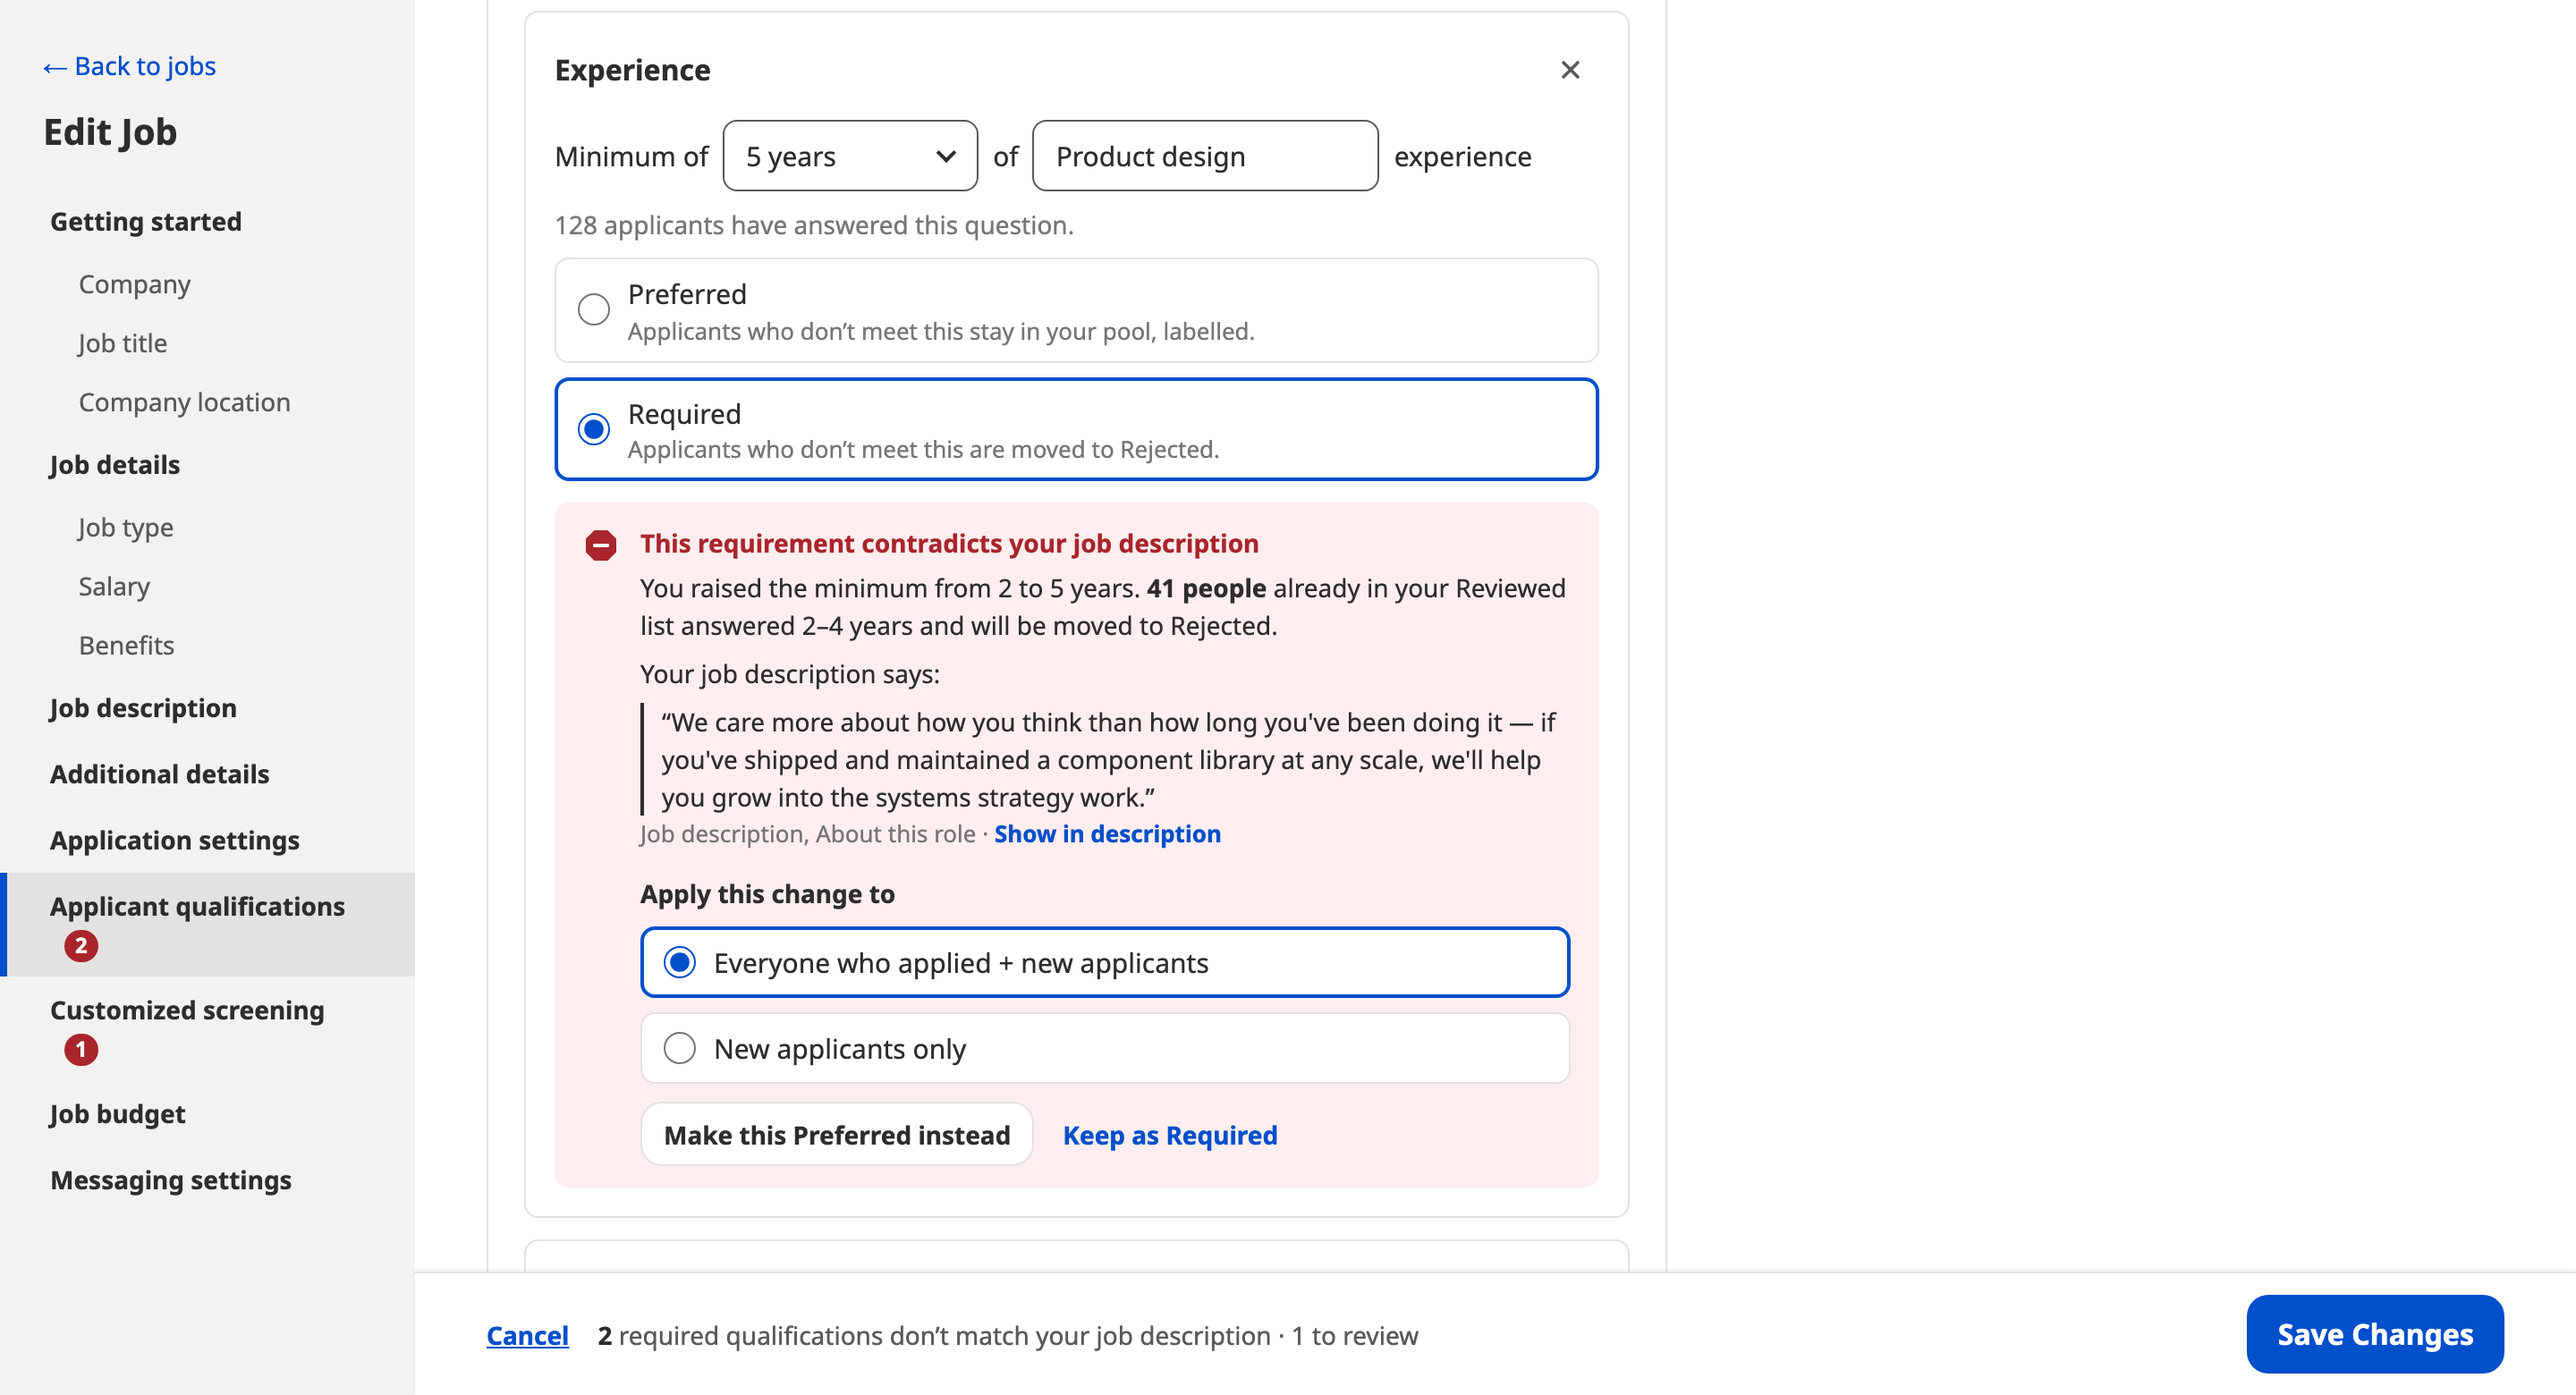
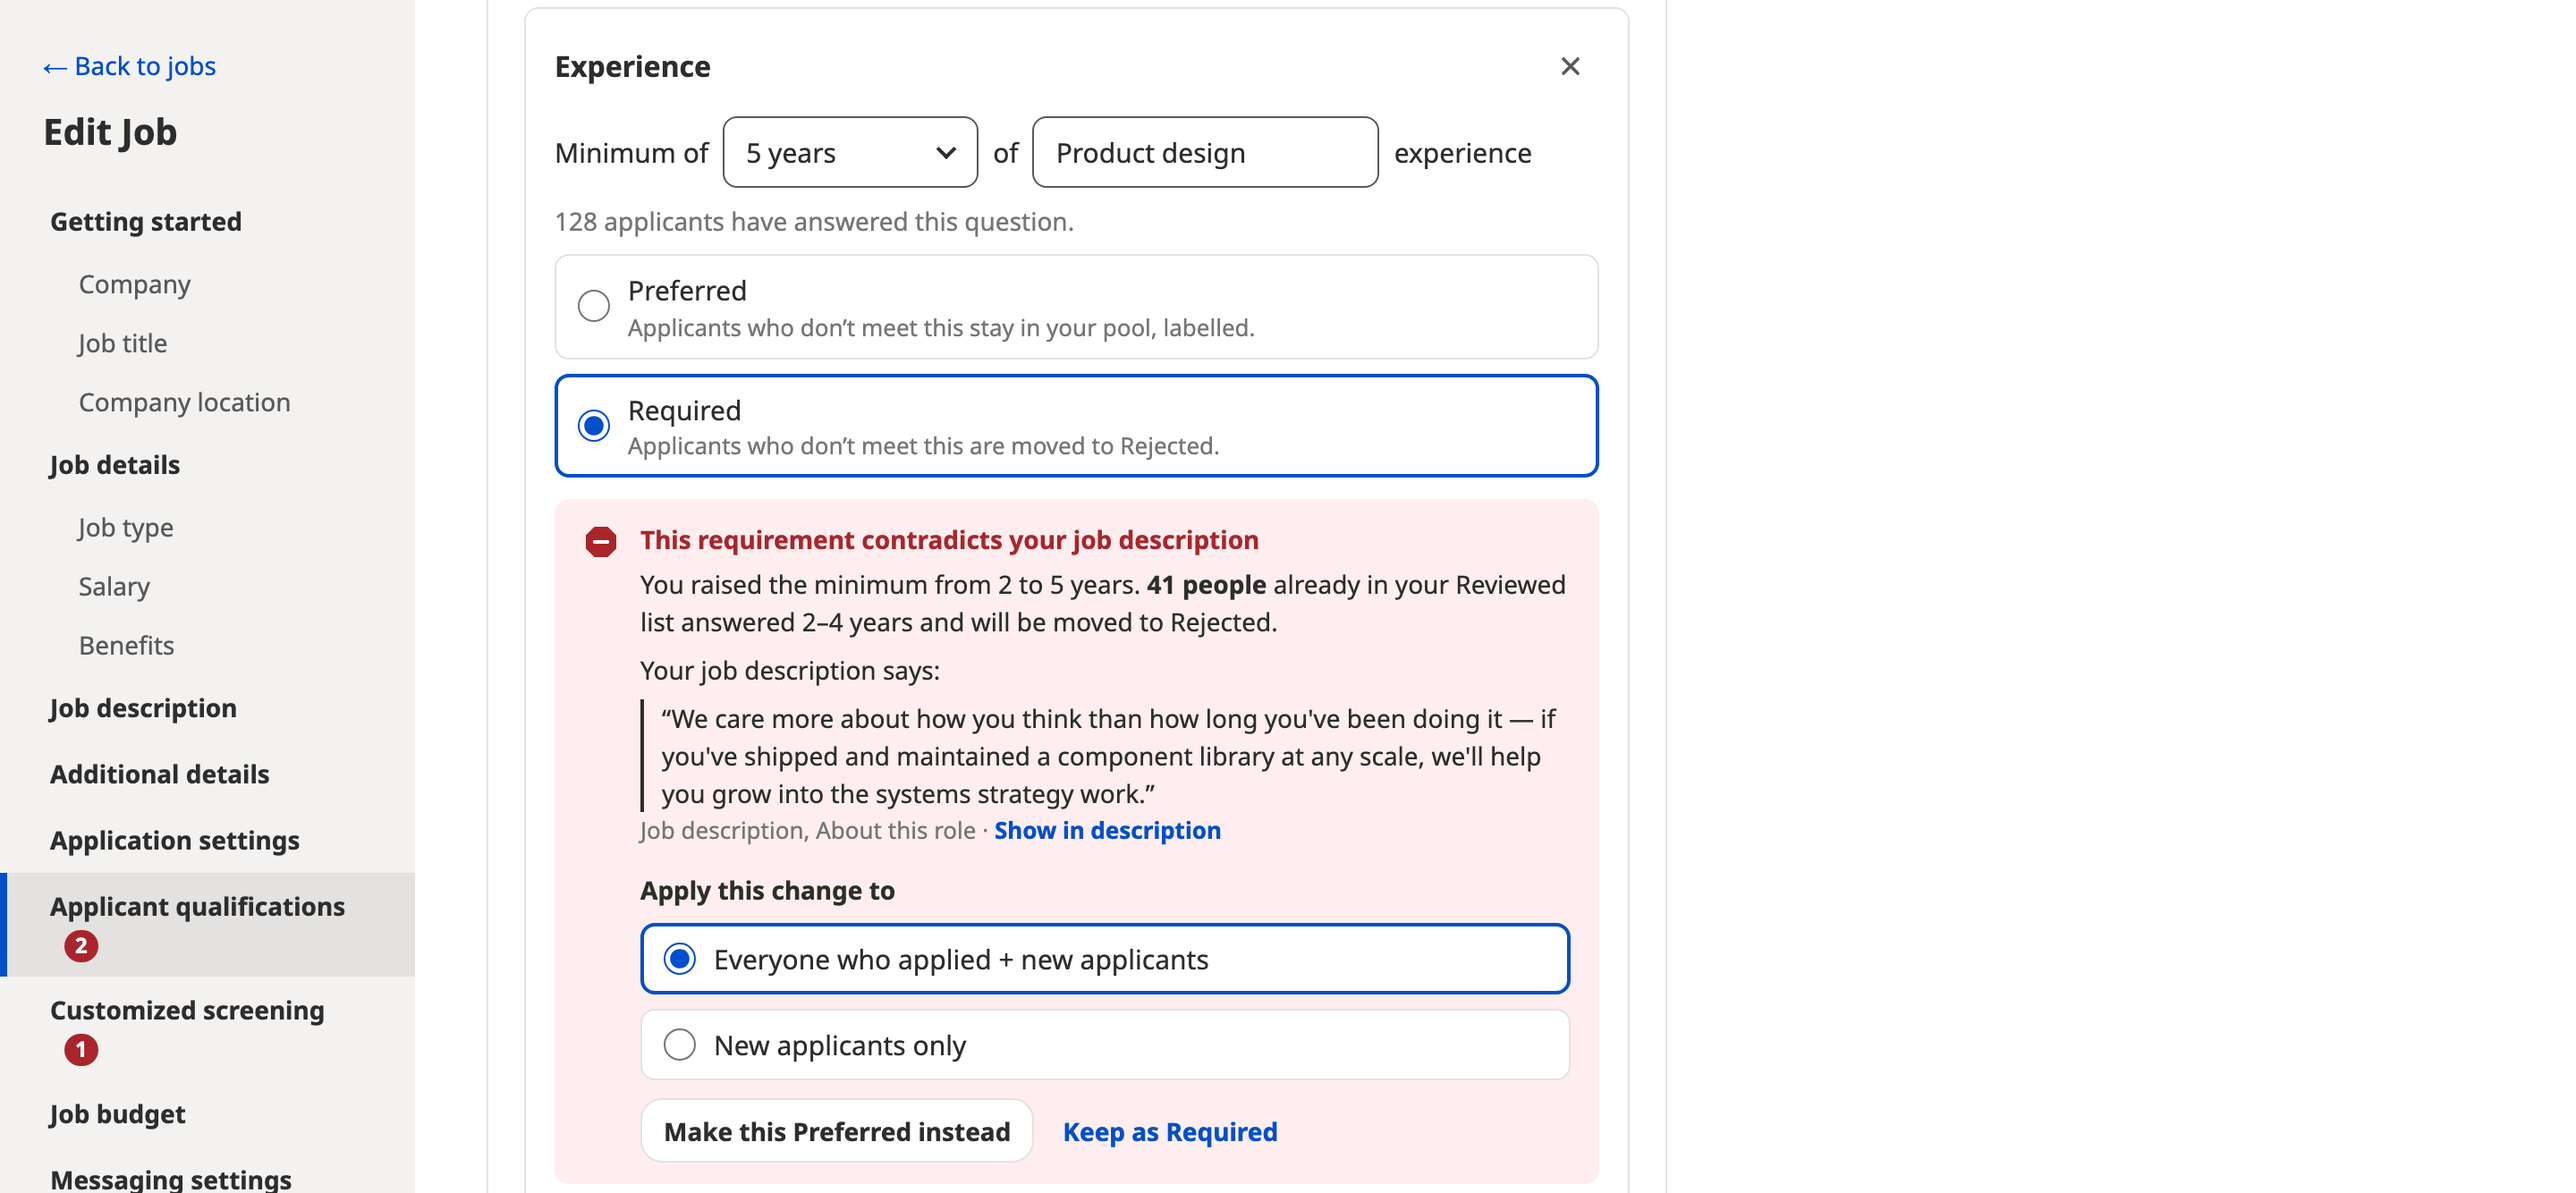
indeed-match-check: replace hero with the fuller Edit Job framing
Sidebar through both resolution actions (Make this Preferred instead /
Keep as Required), matching the crop Dinesh selected. Reshot from the live
prototype at 2x rather than using the downloaded copy, which had picked up
padding/shadow chrome and would have upscaled soft at full width.

diff --git a/app/indeed-match-check/page.tsx b/app/indeed-match-check/page.tsx
@@ -176,7 +176,7 @@ export default function IndeedMatchCheckCaseStudy() {
           src={`${IMG}/hero-full.png`}
           alt="Indeed's Edit Job page. The Experience qualification has been raised to 5 years and marked Required. Beneath it, a red callout reads: This requirement contradicts your job description. 41 people already in your Reviewed list answered 2–4 years and will be moved to Rejected. The job description's own sentence is quoted underneath, with the options Make this Preferred instead and Keep as Required."
           width={2880}
-          height={1560}
+          height={1334}
           priority
           sizes="100vw"
           style={{ width: "100%", height: "auto", display: "block" }}
